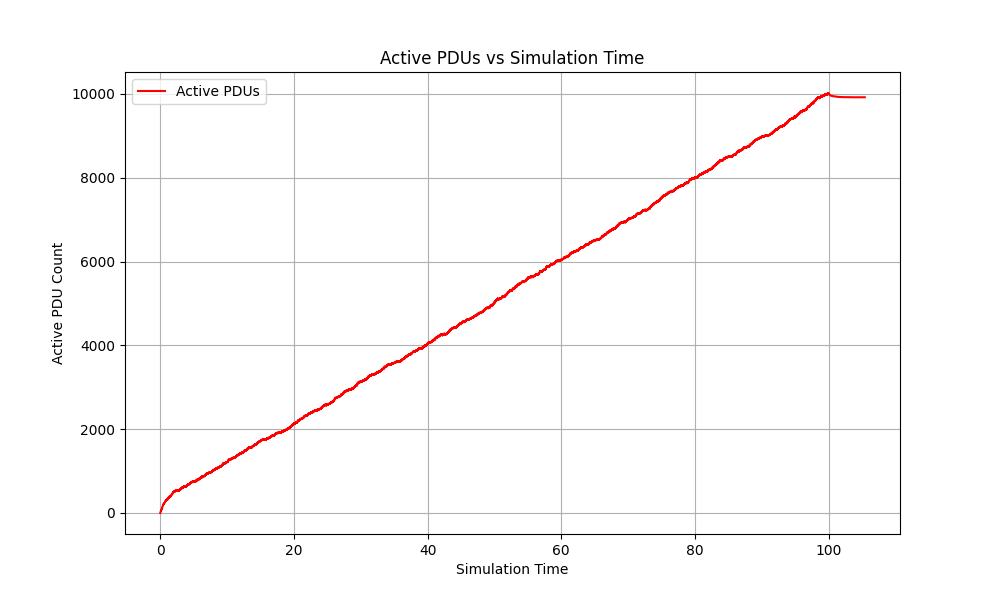
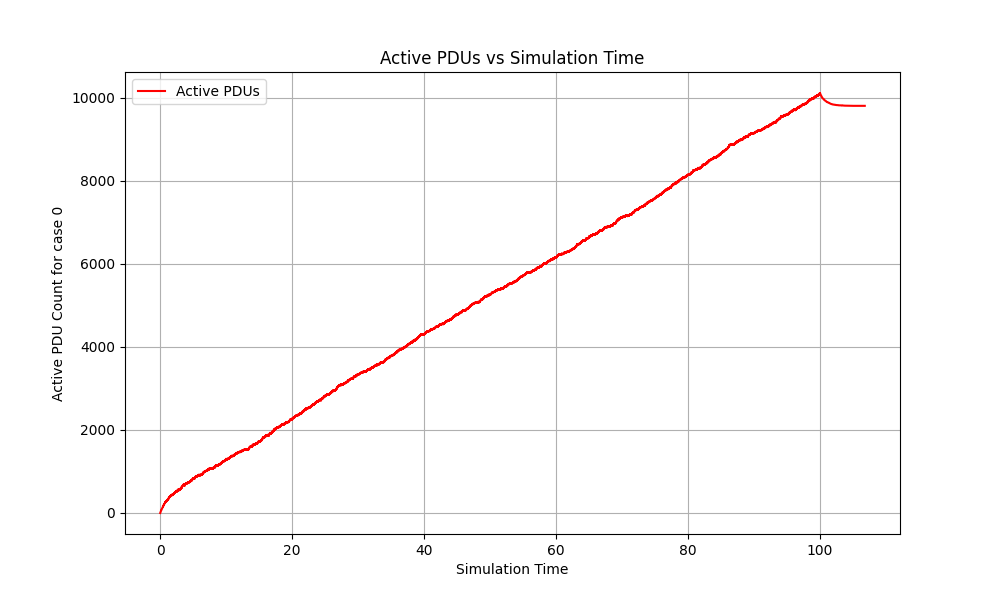
1. Removed constants from code and added them as parameters (lambda and mu) 2. Added separate module for post processing 3. Plotted Active PDUs and UPFs vs time 4. Made the case for sorting a user argument as well

diff --git a/post_processing.py b/post_processing.py
@@ -1,7 +1,7 @@
 import matplotlib.pyplot as plt
 
 
-def generate_plots(time_points, pdu_counts, upf_counts, active_pdu_counts, active_upf_counts):
+def generate_plots_case0(time_points, pdu_counts, upf_counts, active_pdu_counts, active_upf_counts):
     """
     Generate plots for PDU count against simulation time and UPF count against simulation time.
 
@@ -15,18 +15,73 @@ def generate_plots(time_points, pdu_counts, upf_counts, active_pdu_counts, activ
     plt.figure(figsize=(10, 6))
     plt.plot(time_points, pdu_counts, label='PDU Count', color='blue')
     plt.xlabel('Simulation Time')
-    plt.ylabel('PDU Count')
+    plt.ylabel('PDU Count for case 0')
     plt.title('PDU vs Simulation Time')
     plt.grid(True)
     plt.legend()
-    plt.savefig('pdu_vs_simulation_time.png')
+    plt.savefig('pdu_vs_simulation_time_case0.png')
     plt.show()
 
     # Plot UPF against simulation time
     plt.figure(figsize=(10, 6))
     plt.plot(time_points, upf_counts, label='UPF Count', color='green')
     plt.xlabel('Simulation Time')
-    plt.ylabel('UPF Count')
+    plt.ylabel('UPF Count for case 0')
+    plt.title('UPF vs Simulation Time')
+    plt.grid(True)
+    plt.legend()
+    plt.savefig('upf_vs_simulation_time_case0.png')
+    plt.show()
+
+    plt.figure(figsize=(10, 6))
+    plt.plot(time_points, active_pdu_counts, label='Active PDUs', color='red')
+    plt.xlabel('Simulation Time')
+    plt.ylabel('Active PDU Count for case 0')
+    plt.title('Active PDUs vs Simulation Time')
+    plt.grid(True)
+    plt.legend()
+    plt.savefig('active_pdus_vs_simulation_time_case0.png')
+    plt.show()
+
+    # Plot active UPFs against simulation time
+    plt.figure(figsize=(10, 6))
+    plt.plot(time_points, active_upf_counts, label='Active UPFs', color='orange')
+    plt.xlabel('Simulation Time')
+    plt.ylabel('Active UPF Count for case 0')
+    plt.title('Active UPFs vs Simulation Time')
+    plt.grid(True)
+    plt.legend()
+    plt.savefig('active_upfs_vs_simulation_time_case0.png')
+    plt.show()
+
+
+def generate_plots_case1(time_points, pdu_counts, upf_counts, active_pdu_counts, active_upf_counts):
+    """
+    Generate plots for PDU count against simulation time and UPF count against simulation time.
+
+    :param time_points: List of time points
+    :param pdu_counts: List of PDUs
+    :param upf_counts: List of UPFs
+    :param active_pdu_counts: List of active PDUs
+    :param active_upf_counts: List of active UPFs
+    """
+
+    # Plot PDU against simulation time
+    plt.figure(figsize=(10, 6))
+    plt.plot(time_points, pdu_counts, label='PDU Count', color='blue')
+    plt.xlabel('Simulation Time')
+    plt.ylabel('PDU Count for case 1')
+    plt.title('PDU vs Simulation Time')
+    plt.grid(True)
+    plt.legend()
+    plt.savefig('pdu_vs_simulation_time_case1.png')
+    plt.show()
+
+    # Plot UPF against simulation time
+    plt.figure(figsize=(10, 6))
+    plt.plot(time_points, upf_counts, label='UPF Count', color='green')
+    plt.xlabel('Simulation Time')
+    plt.ylabel('UPF Count for case 1')
     plt.title('UPF vs Simulation Time')
     plt.grid(True)
     plt.legend()
@@ -36,7 +91,7 @@ def generate_plots(time_points, pdu_counts, upf_counts, active_pdu_counts, activ
     plt.figure(figsize=(10, 6))
     plt.plot(time_points, active_pdu_counts, label='Active PDUs', color='red')
     plt.xlabel('Simulation Time')
-    plt.ylabel('Active PDU Count')
+    plt.ylabel('Active PDU Count for case 1')
     plt.title('Active PDUs vs Simulation Time')
     plt.grid(True)
     plt.legend()
@@ -47,7 +102,7 @@ def generate_plots(time_points, pdu_counts, upf_counts, active_pdu_counts, activ
     plt.figure(figsize=(10, 6))
     plt.plot(time_points, active_upf_counts, label='Active UPFs', color='orange')
     plt.xlabel('Simulation Time')
-    plt.ylabel('Active UPF Count')
+    plt.ylabel('Active UPF Count for case 1')
     plt.title('Active UPFs vs Simulation Time')
     plt.grid(True)
     plt.legend()

diff --git a/main.py b/main.py
@@ -2,7 +2,7 @@ import heapq
 import random
 import argparse
 import numpy as np
-from post_processing import generate_plots
+import post_processing
 
 # Event types
 EVENT_GENERATE_PDU_SESSION = 1
@@ -300,7 +300,15 @@ class Scheduler:
                   f"Total UPFs deployed: {self.next_upf_id}.")
 
         # Generate plots
-        generate_plots(time_points, pdu_counts, upf_counts, active_pdu_counts, active_upf_counts)
+        if self.upf_case == 0:
+            post_processing.generate_plots_case0(time_points, pdu_counts, upf_counts, active_pdu_counts,
+                                                 active_upf_counts)
+        elif self.upf_case == 1:
+            post_processing.generate_plots_case1(time_points, pdu_counts, upf_counts, active_pdu_counts,
+                                                 active_upf_counts)
+        else:
+            message = f"No plots to show, invalid sorting case"
+            self._log(message)
 
 
 if __name__ == "__main__":
